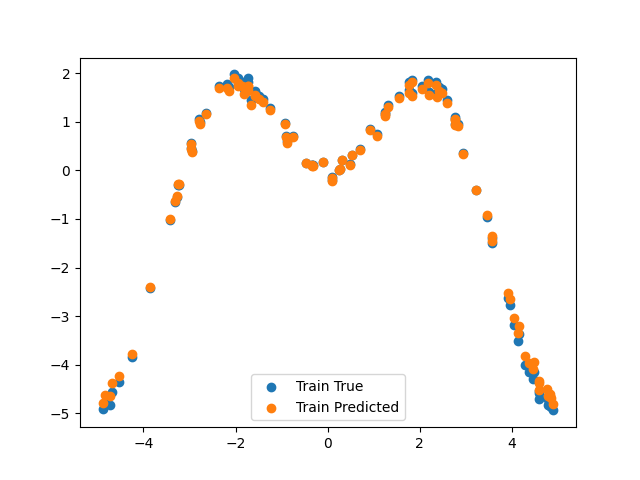
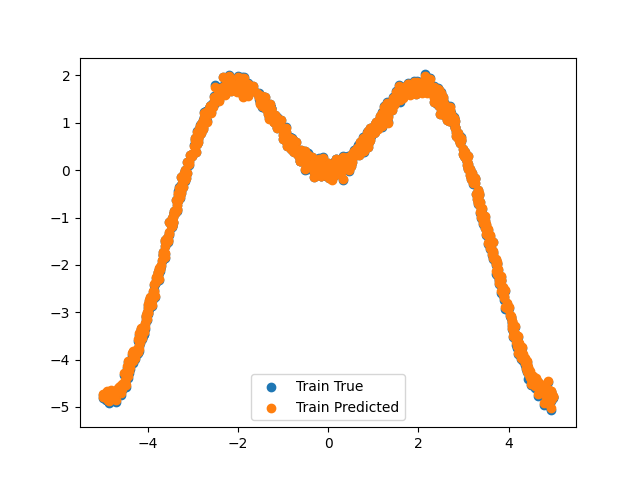
feat: add rfm power test

diff --git a/run.py b/run.py
@@ -1,7 +1,7 @@
 import argparse
 import json
 import logging
-from src.utils import K_M
+from src.utils import K_M, mse
 from src.main import classify, poly_regression
 from src.rfm import train_rfm, test_rfm, plot_results
 from src.etl import generate_test_data, load_data
@@ -11,7 +11,7 @@ logger = logging.getLogger(__name__)
 logging.basicConfig(level=logging.INFO, format="%(asctime)s [%(levelname)s] \t %(message)s", datefmt="%b %d %Y %I:%M%p")
 
 # add required argument
-parser.add_argument("task", help="task to run", choices=["test", "test-data", "mnist", "cifar10", "fashionmnist", "rfm"])
+parser.add_argument("task", help="task to run", choices=["test", "test-data", "mnist", "cifar10", "fashionmnist", "rfm", "rfmpowertest"])
 parser.add_argument("--verbose", help="Set logging to DEBUG", action="store_true")
 
 # parse arguments
@@ -50,8 +50,8 @@ elif args.task == "mnist" or args.task == "cifar10" or args.task == "fashionmnis
 
 elif args.task == "rfm":
     # generate data    
-    train_data = generate_test_data(target_fn_id="xsinx", n_samples=100, noise_std=0.1)
-    test_data = generate_test_data(target_fn_id="xsinx", n_samples=100, noise_std=0.1)
+    train_data = generate_test_data(target_fn_id="xsinx", n_samples=1000, noise_std=0.1)
+    test_data = generate_test_data(target_fn_id="xsinx", n_samples=200, noise_std=0.1)
     X_train, y_train = train_data[:, :-1], train_data[:, -1]
     X_test, y_test = test_data[:, :-1], test_data[:, -1]
         
@@ -69,4 +69,21 @@ elif args.task == "rfm":
     
     y_hat = alpha @ K_M(X_train, X_test, M, L)
     plot_results(X_test, y_test, y_hat, "results/plots/testrfm.png", test=True)
+    
+elif args.task == "rfmpowertest":
+    # generate data    
+    train_data = generate_test_data(target_fn_id="xsinx", n_samples=1000, noise_std=0.1)
+    test_data = generate_test_data(target_fn_id="xsinx", n_samples=200, noise_std=0.1)
+    X_train, y_train = train_data[:, :-1], train_data[:, -1]
+    X_test, y_test = test_data[:, :-1], test_data[:, -1]
+    
+    # load config
+    config = json.load(open(f"config/rfm_naive.json"))
+    L = config["L"]
+    
+    # increase power of M successively
+    for i in range(1, 4):
+        logging.info(f"M Power Test @ {i}")
+        alpha, M = train_rfm(X_train, y_train, power=i, **config)
+        test_rfm(X_train, X_test, y_test, alpha, M, L)
     

diff --git a/src/rfm.py b/src/rfm.py
@@ -6,7 +6,7 @@ from src.etl import TARGET_FNS
 
 logger = logging.getLogger(__name__)
 
-def train_rfm(X_train, y_train, L=1., lam=1e-3, T=10):
+def train_rfm(X_train, y_train, power, L=1., lam=1e-3, T=10):
     """
     Train an RFM kernel.
     
@@ -29,7 +29,7 @@ def train_rfm(X_train, y_train, L=1., lam=1e-3, T=10):
     for t in range(T):
         K_train = utils.K_M(X_train, X_train, M, L=L)
         alpha = y_train @ np.linalg.pinv(K_train + lam*np.eye(n))
-        M = utils.grad_laplace_mat(X_train, alpha, L, M)
+        M = utils.grad_laplace_mat(X_train, alpha, L, M)**power
     
     # evaluate
     y_hat = alpha @ utils.K_M(X_train, X_train, M, L)
